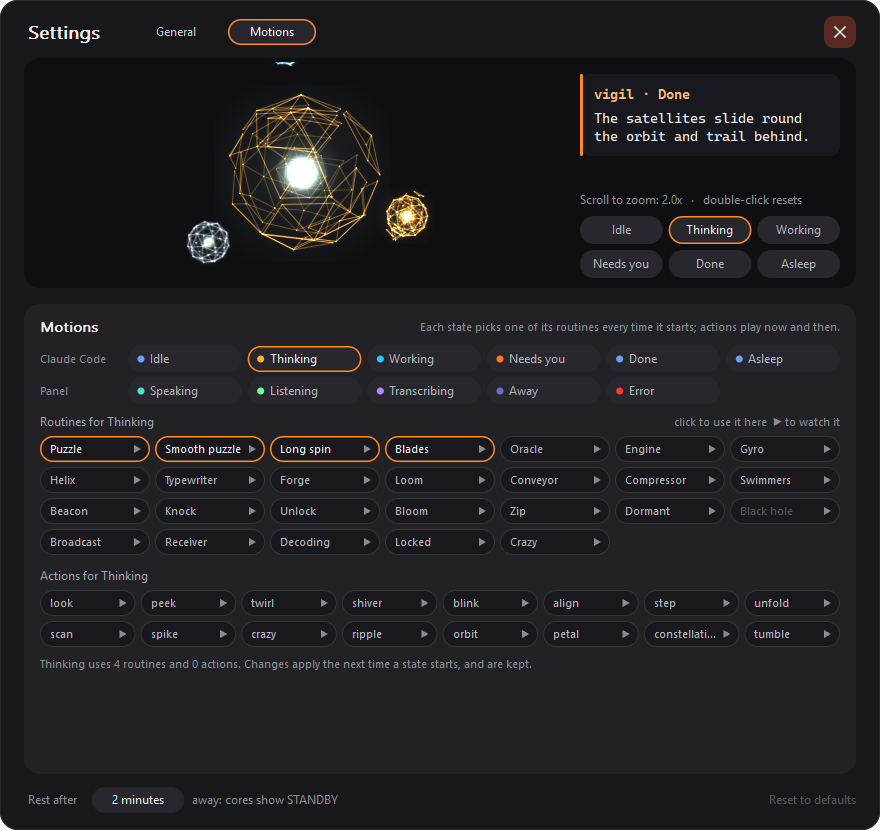
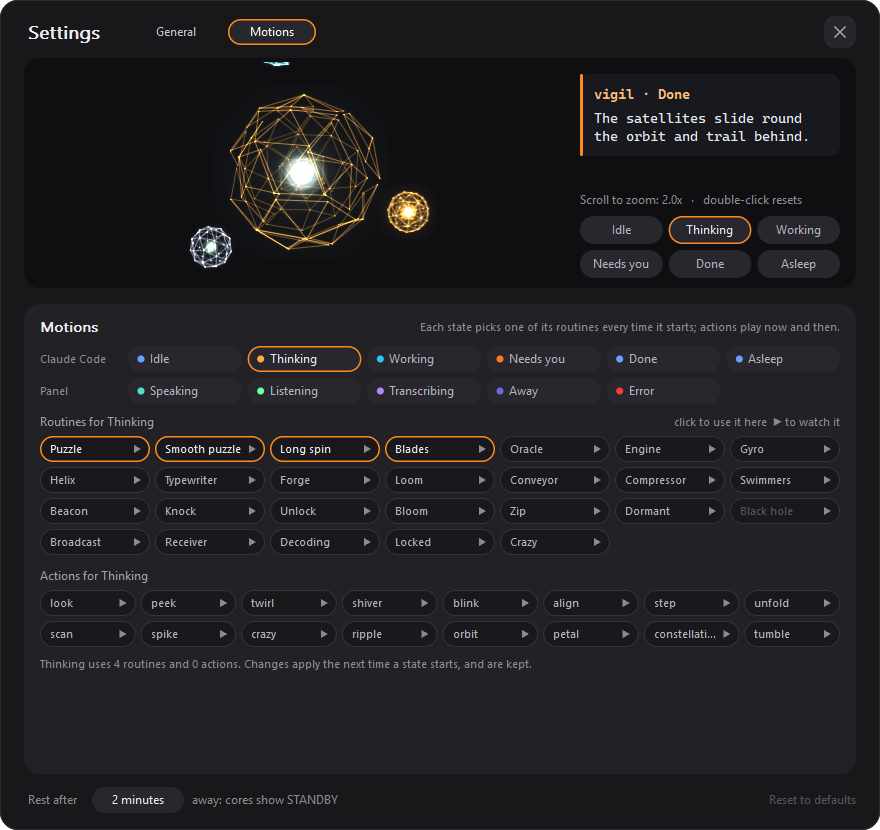
docs: the Settings window is the Windows panel's; box size; --on
- README: Settings (Windows) vs the Mac's right-click Settings menu, and
  the Replies card's box size, in both languages
- Settings screenshots retaken on a side monitor with --on
- CLAUDE.md: where the colour and scroll settings live; --on

Changed region(s): [[0.2148, 0.0904, 0.4909, 0.3313], [0.9205, 0.0, 0.9818, 0.0602], [0.3068, 0.0602, 0.3375, 0.0904]]

diff --git a/README.md b/README.md
@@ -89,7 +89,7 @@ sh win/build.sh && ./vigil-win --demo       # Windows: run from WSL (needs mingw
 - **One core or all.** By default one large core shows the session that needs you (else the one with the newest reply), and the other sessions are small cores around it. `--all` shows each session as its own core, placed where you like.
 - **Replying.** Windows: double-click a core, type, Enter; images can be dropped on the core. macOS: hold a core and speak (push-to-talk, recognised on the Mac); the text goes into that session's iTerm2 pane.
 - **Spoken reports** (macOS, `--voice`): clicking a core reads a short summary of its reply.
-- **Settings** (right-click > Settings): shape, glow, size, gravity, focus frame, which way the wheel spins a core, the text box's font, size, box and text colours, and which motions each state uses, with a live preview.
+- **Settings** (Windows: right-click > Settings): shape, glow, size, gravity, focus frame, which way the wheel spins a core, the text box's font, size, box and text colours, and which motions each state uses, with a live preview. On the Mac, right-click > Settings is a menu: voice, reading new replies aloud, summaries by Claude, labels, text size, glow, shape and away time.
 
 <table>
   <tr>
@@ -234,7 +234,7 @@ Pointing at a core for a moment shows the text box: name and state, then the las
 
 Right-click a core for **Reply**, **Copy reply** and **Bring to front**: there is no iTerm2 here, so that brings up the terminal or VS Code window with the folder name in its title, else the Windows Terminal window used last, but cannot pick the tab.
 
-Right-click > **Settings...** opens the Settings window: a live preview across the top (the cluster as it will look; drag its core to feel the gravity; scroll on it to zoom in up to 3x, double-click to zoom back; buttons to show it in each state; a reply in the text box's font and size) and three cards below. **Look**: shape, glow, size on screen, inner core. **Motion**: what scrolling on a core does (Roll, Roll back, Turn, Turn back or Off), gravity (Floaty to Firm: how hard the main core holds the small cores on their orbit; carried, they slide round it and trail behind, and a hard fling sends them bouncing off the screen edges), other sessions on or off, focus frame. **Replies**: the text box's colours: Box (five dark tones) and Text (Auto, White, Cream, Mint, Sky), each with a palette swatch that opens the Windows colour window for any colour (on Auto, text on a light box turns dark); its font (the terminal's monospaced face, so a reply lines up as it does in Claude Code, Chinese in Microsoft JhengHei two cells wide as in Windows Terminal; or Segoe UI; the reply box always types in the terminal's face), text size, where it opens (next to the core, or the middle of the screen), and names over the cores in all-cores mode.
+Right-click > **Settings...** opens the Settings window: a live preview across the top (the cluster as it will look; drag its core to feel the gravity; scroll on it to zoom in up to 3x, double-click to zoom back; buttons to show it in each state; a reply in the text box's font and size) and three cards below. **Look**: shape, glow, size on screen, inner core. **Motion**: what scrolling on a core does (Roll, Roll back, Turn, Turn back or Off), gravity (Floaty to Firm: how hard the main core holds the small cores on their orbit; carried, they slide round it and trail behind, and a hard fling sends them bouncing off the screen edges), other sessions on or off, focus frame. **Replies**: the text box's colours: Box (five dark tones) and Text (Auto, White, Cream, Mint, Sky), each with a palette swatch that opens the Windows colour window for any colour (on Auto, text on a light box turns dark); the box's size; its font (the terminal's monospaced face, so a reply lines up as it does in Claude Code, Chinese in Microsoft JhengHei two cells wide as in Windows Terminal; or Segoe UI; the reply box always types in the terminal's face), text size, where it opens (next to the core, or the middle of the screen), and names over the cores in all-cores mode.
 
 The **Motions** page (the switch at the top) chooses, for every state, which routines it may run (one is picked each time the state starts; any routine may go to any state, except the black hole, which is for sleep only) and which actions it may play now and then while left alone; **▶** on a chip plays it in the preview. At the foot: how long until the cores rest (STANDBY) and **Reset to defaults**. Choices apply at once, are kept in `~/.dodeca-core/panel-settings-win.json` and win over the launch options until reset; Esc closes the window.
 
